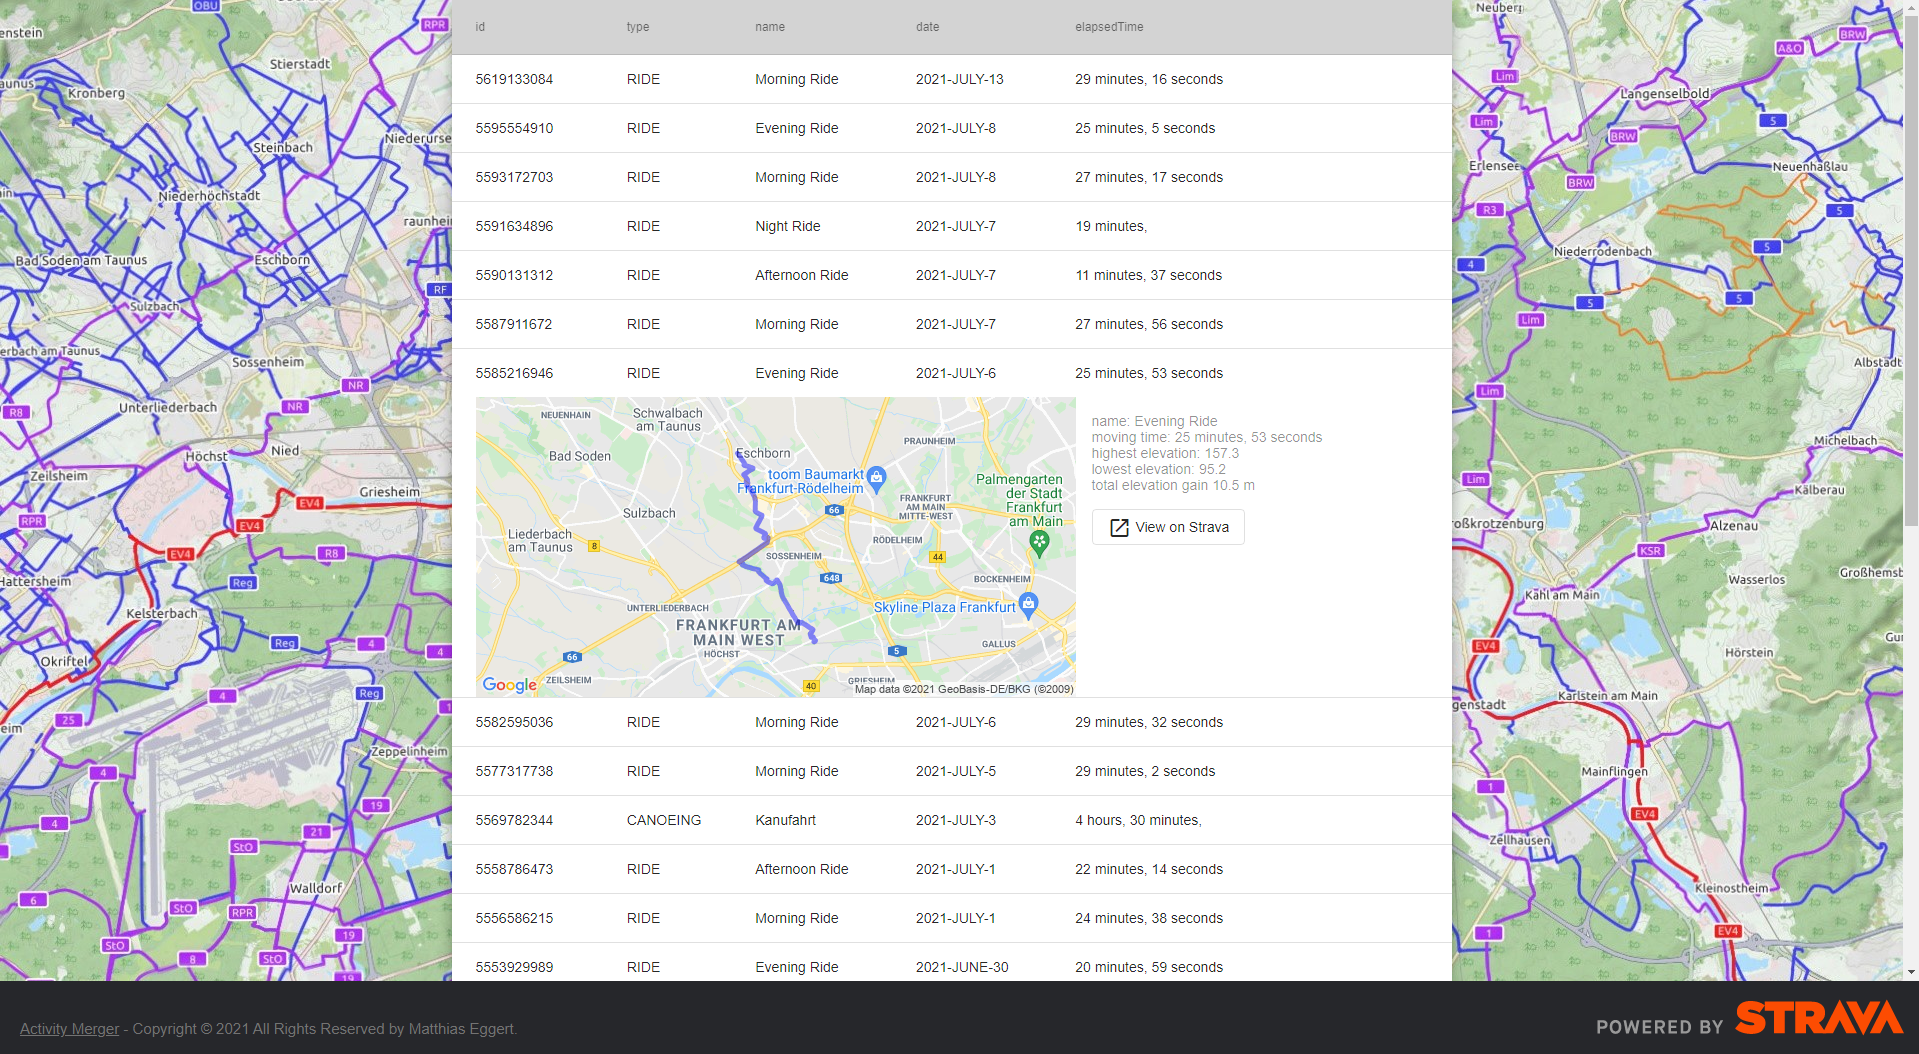
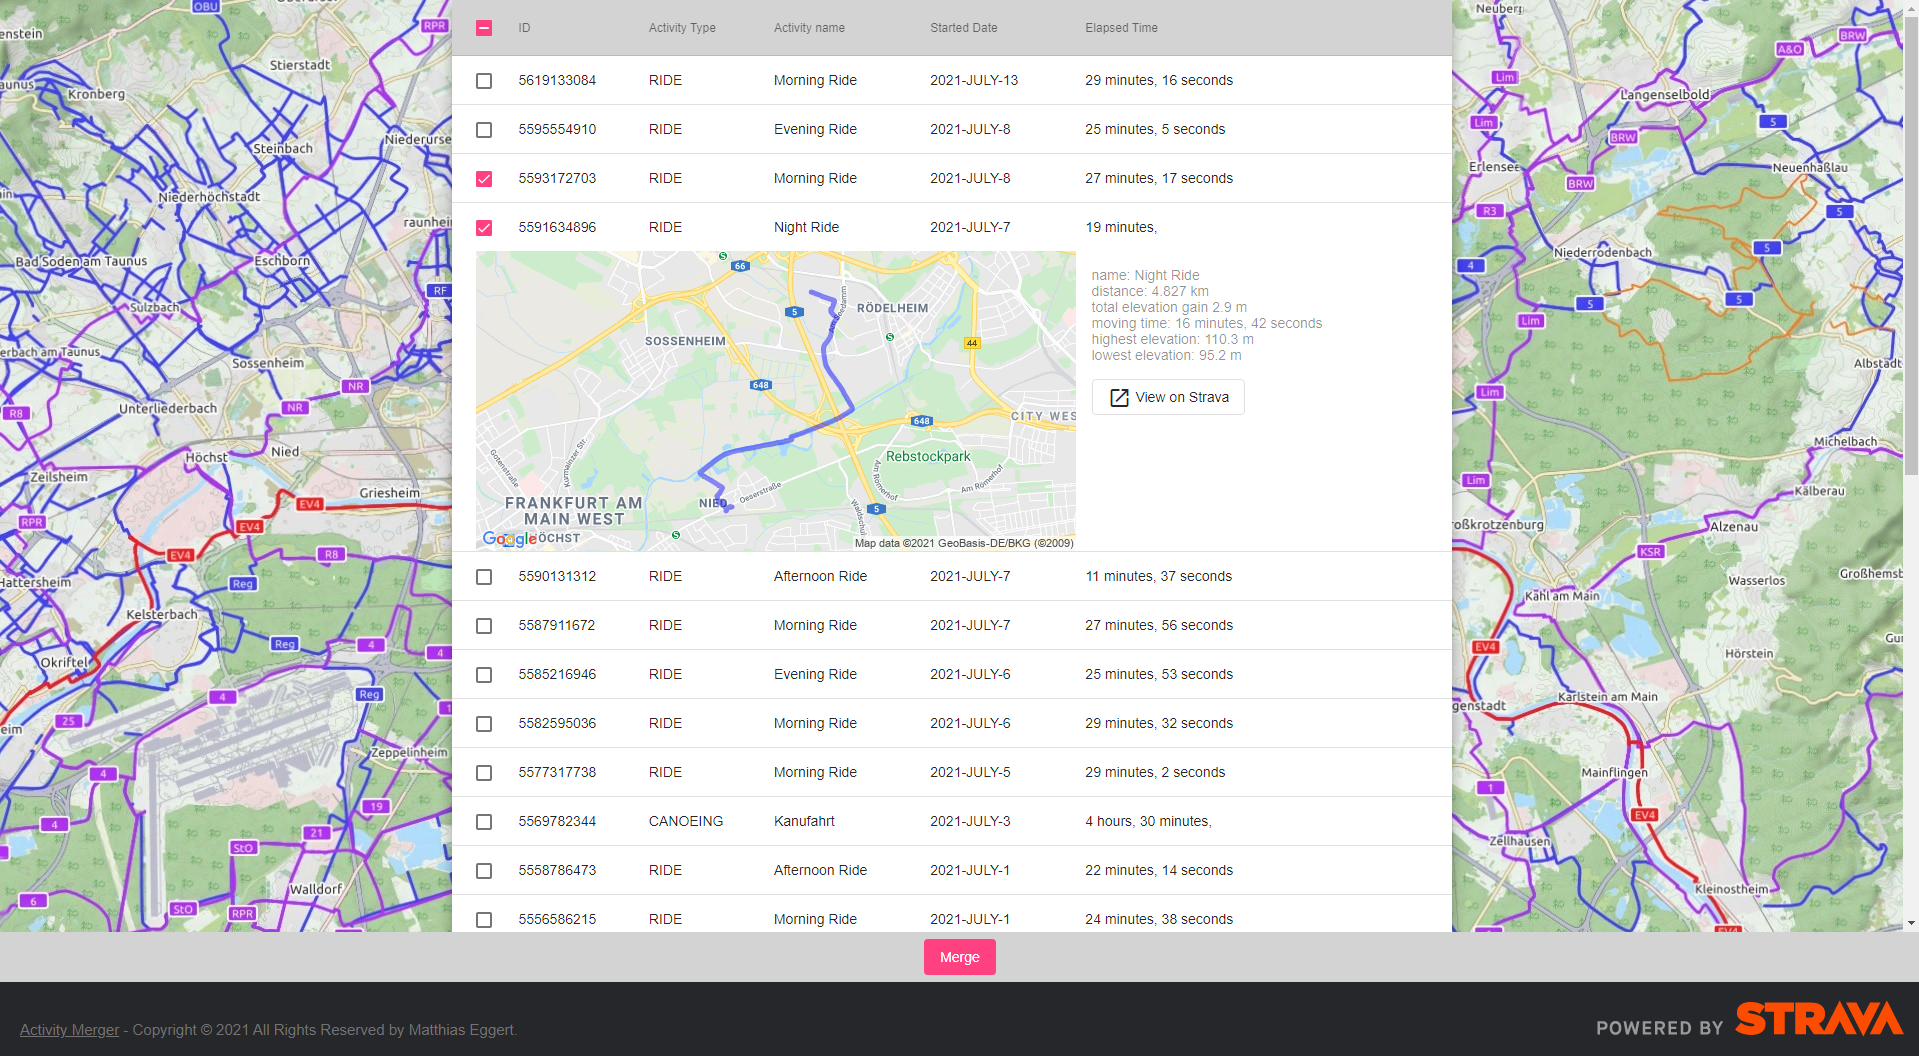
add selection and merge button

diff --git a/wep-app/src/app/activity-table-component/activity-table.component.html b/wep-app/src/app/activity-table-component/activity-table.component.html
@@ -2,10 +2,6 @@
   <table mat-table
          [dataSource]="dataSource" multiTemplateDataRows
          class="mat-elevation-z8">
-    <ng-container matColumnDef="{{column}}" *ngFor="let column of columnsToDisplay">
-      <th mat-header-cell *matHeaderCellDef> {{column}} </th>
-      <td mat-cell *matCellDef="let element"> {{element[column]}} </td>
-    </ng-container>
 
     <!-- Expanded Content Column - The detail row is made up of this one column that spans across all columns -->
     <ng-container matColumnDef="expandedDetail">
@@ -22,6 +18,52 @@
       </td>
     </ng-container>
 
+    <!-- Checkbox Column -->
+    <ng-container matColumnDef="select">
+      <th mat-header-cell *matHeaderCellDef>
+        <mat-checkbox (change)="$event ? masterToggle() : null"
+                      [checked]="selection.hasValue() && isAllSelected()"
+                      [indeterminate]="selection.hasValue() && !isAllSelected()">
+        </mat-checkbox>
+      </th>
+      <td mat-cell *matCellDef="let row">
+        <mat-checkbox (click)="$event.stopPropagation()"
+                      (change)="$event ? selection.toggle(row) : null"
+                      [checked]="selection.isSelected(row)">
+        </mat-checkbox>
+      </td>
+    </ng-container>
+
+    <!-- id Column -->
+    <ng-container matColumnDef="id">
+      <th mat-header-cell *matHeaderCellDef> ID </th>
+      <td mat-cell *matCellDef="let element"> {{element.id}} </td>
+    </ng-container>
+
+    <!-- type Column -->
+    <ng-container matColumnDef="type">
+      <th mat-header-cell *matHeaderCellDef> Activity Type </th>
+      <td mat-cell *matCellDef="let element"> {{element.type}} </td>
+    </ng-container>
+
+    <!-- name Column -->
+    <ng-container matColumnDef="name">
+      <th mat-header-cell *matHeaderCellDef> Activity name </th>
+      <td mat-cell *matCellDef="let element"> {{element.name}} </td>
+    </ng-container>
+
+    <!-- date Column -->
+    <ng-container matColumnDef="date">
+      <th mat-header-cell *matHeaderCellDef> Started Date </th>
+      <td mat-cell *matCellDef="let element"> {{element.date}} </td>
+    </ng-container>
+
+    <!-- elapsedTime Column -->
+    <ng-container matColumnDef="elapsedTime">
+      <th mat-header-cell *matHeaderCellDef> Elapsed Time </th>
+      <td mat-cell *matCellDef="let element"> {{element.elapsedTime}} </td>
+    </ng-container>
+
     <tr mat-header-row *matHeaderRowDef="columnsToDisplay" class="header"></tr>
     <tr mat-row *matRowDef="let element; columns: columnsToDisplay;"
         class="element-row"
@@ -30,4 +72,7 @@
     </tr>
     <tr mat-row *matRowDef="let row; columns: ['expandedDetail']" class="detail-row"></tr>
   </table>
+  <div class="merge-button-container">
+    <button mat-flat-button color="accent" [disabled]="selection.selected.length == 0">Merge</button>
+  </div>
 </div>

diff --git a/wep-app/src/app/activity-table-component/activity-table.component.ts b/wep-app/src/app/activity-table-component/activity-table.component.ts
@@ -1,6 +1,7 @@
 import {Component, Input} from '@angular/core';
 import {animate, state, style, transition, trigger} from '@angular/animations';
 import {TokenService} from "../token-service/token.service";
+import {SelectionModel} from "@angular/cdk/collections";
 
 /**
  * @title Table with expandable rows
@@ -19,9 +20,12 @@ import {TokenService} from "../token-service/token.service";
 })
 export class ActivityTableComponent {
   dataSource : any[] = [];
-  columnsToDisplay = ['id', 'type', 'name', 'date', 'elapsedTime'];
+  columnsToDisplay = ['select', 'id', 'type', 'name', 'date', 'elapsedTime'];
   expandedElement: Activity | null;
   key: string = '';
+
+  selection = new SelectionModel<Activity>(true, []);
+
   @Input() set activities(value: any[]) {
     this.dataSource = value;
     this.dataSource.forEach(item => {
@@ -47,14 +51,28 @@ export class ActivityTableComponent {
 
   secondsToHms(str: string) {
     let d = Number(str);
-    var h = Math.floor(d / 3600);
-    var m = Math.floor(d % 3600 / 60);
-    var s = Math.floor(d % 3600 % 60);
+    let h = Math.floor(d / 3600);
+    let m = Math.floor(d % 3600 / 60);
+    let s = Math.floor(d % 3600 % 60);
 
-    var hDisplay = h > 0 ? h + (h == 1 ? " hour, " : " hours, ") : "";
-    var mDisplay = m > 0 ? m + (m == 1 ? " minute, " : " minutes, ") : "";
-    var sDisplay = s > 0 ? s + (s == 1 ? " second" : " seconds") : "";
+    let hDisplay = h > 0 ? h + (h == 1 ? " hour, " : " hours, ") : "";
+    let mDisplay = m > 0 ? m + (m == 1 ? " minute, " : " minutes, ") : "";
+    let sDisplay = s > 0 ? s + (s == 1 ? " second" : " seconds") : "";
     return hDisplay + mDisplay + sDisplay;
+  }
+
+  /** Whether the number of selected elements matches the total number of rows. */
+  isAllSelected() {
+    const numSelected = this.selection.selected.length;
+    const numRows = this.dataSource.length;
+    return numSelected === numRows;
+  }
+
+  /** Selects all rows if they are not all selected; otherwise clear selection. */
+  masterToggle() {
+    this.isAllSelected() ?
+      this.selection.clear() :
+      this.dataSource.forEach(row => this.selection.select(row));
   }
 
   constructor(private tokenService: TokenService) {
@@ -67,4 +85,7 @@ export class ActivityTableComponent {
 export interface Activity {
   id: number;
   type: string;
+  name: string;
+  date: string;
+  elapsedTime: string;
 }

diff --git a/wep-app/src/app/activity-table-component/activity-table.component.scss b/wep-app/src/app/activity-table-component/activity-table.component.scss
@@ -36,11 +36,22 @@ tr.element-row:not(.expanded-row):active {
 .container {
   position: relative;
   overflow-y: scroll;
-  height: calc(100vh - 75px);
+  height: calc(100vh - 75px - 50px);
 }
 
 tr.header {
   position: sticky;
   top: 0px;
   background-color: lightgray;
+}
+
+.merge-button-container {
+  position: fixed;
+  bottom: 75px;
+  height: 50px;
+  background-color: lightgray;
+  width: 100%;
+  align-items: center;
+  justify-content: center;
+  display: flex;
 }
